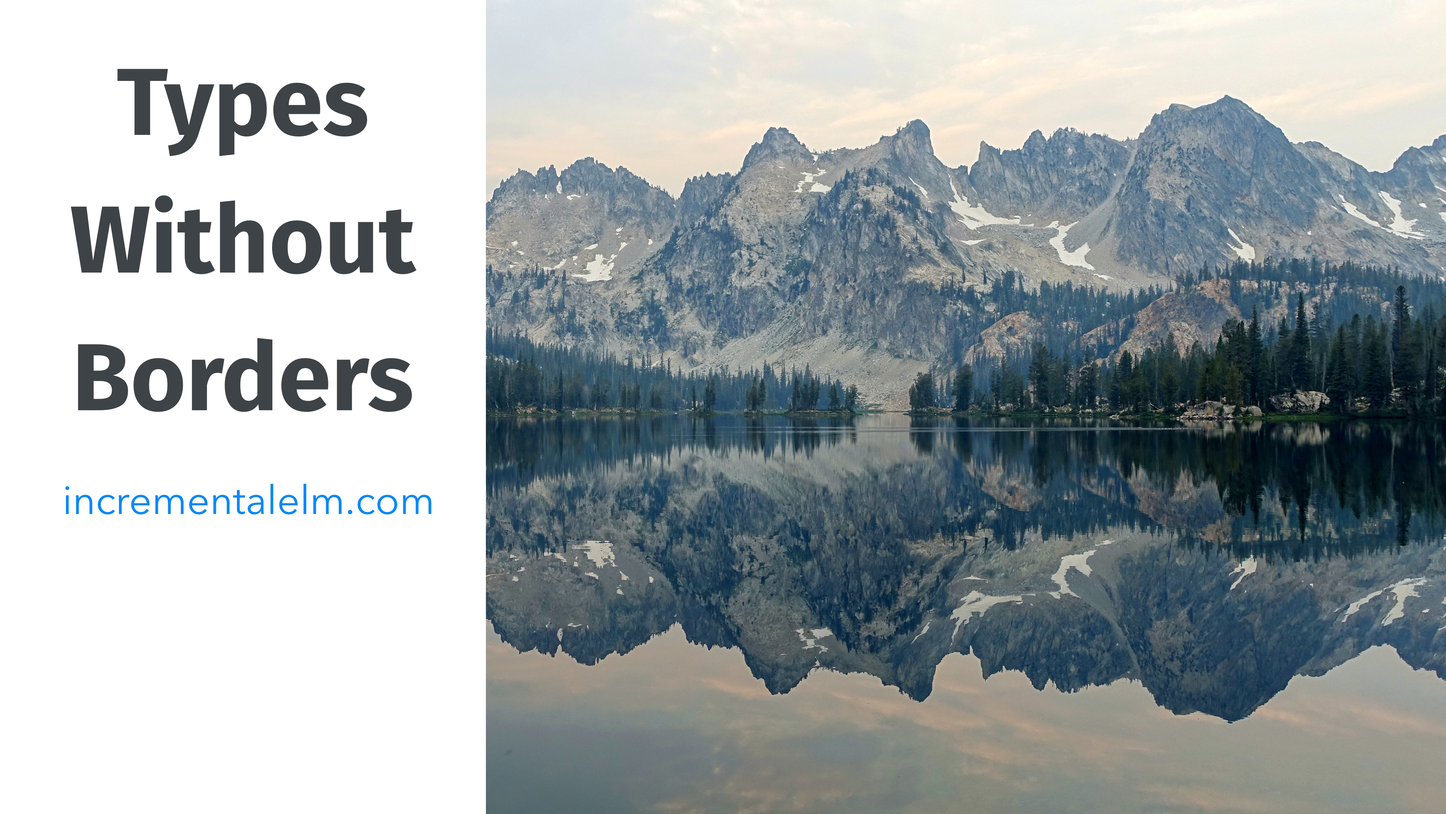
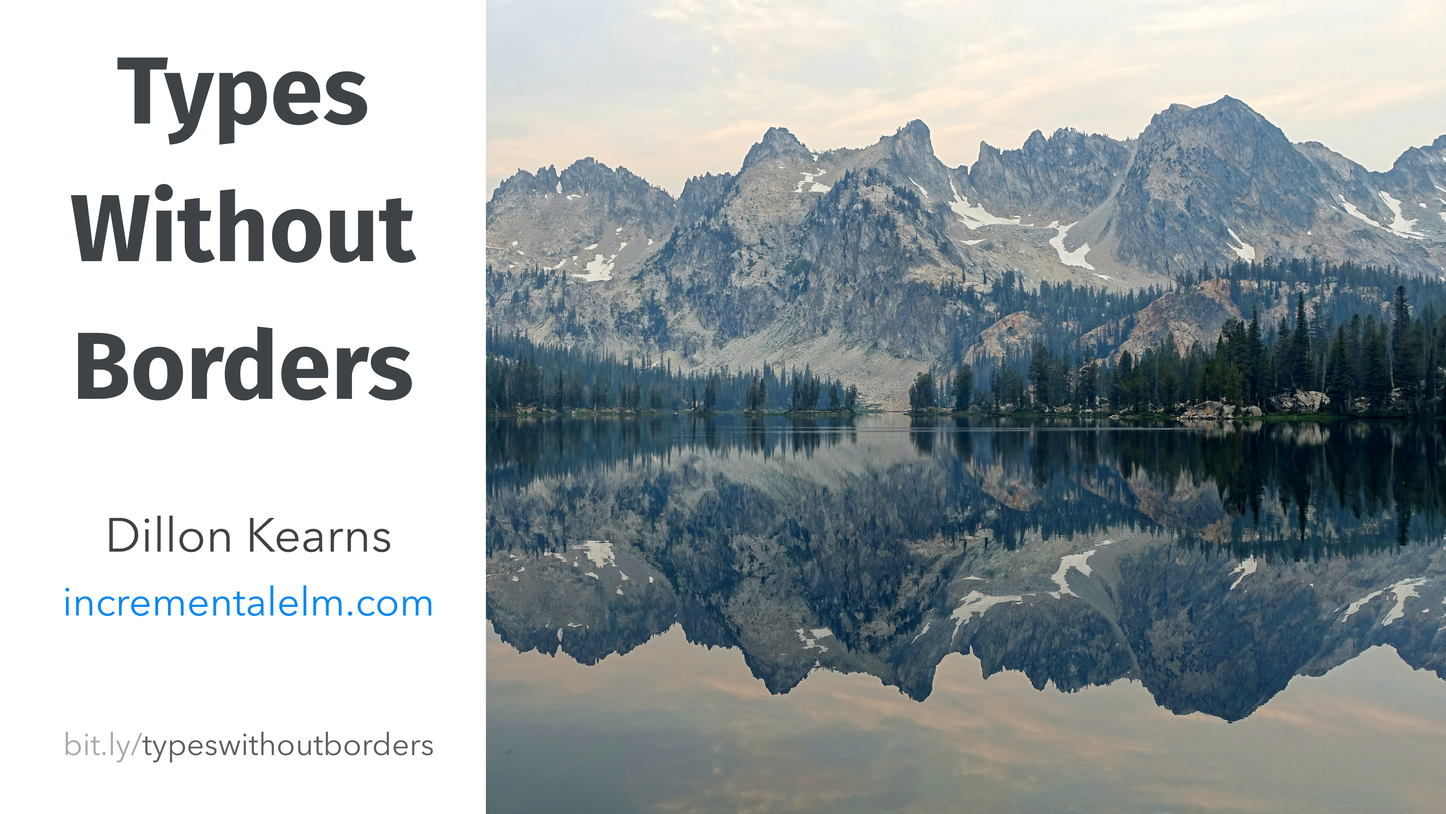
Update opening and closing slides.

diff --git a/types-without-borders/types-without-borders.md b/types-without-borders/types-without-borders.md
@@ -3,9 +3,7 @@ build-lists: true
 
 #
 
-[.text-strong: #0089FC, Avenir Next Regular]
-
-[.text: #0D70FB, Avenir Next Regular]
+[.hide-footer]
 
 ![fit](img/opening.jpg)
 
@@ -525,8 +523,6 @@ Way to migrate from previous schema.
 
 # -
 
-[.text-strong: #0089FC, Avenir Next Regular]
-
-[.text: #0D70FB, Avenir Next Regular]
+[.hide-footer]
 
 ![fit](img/thank-you.jpg)
